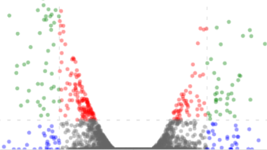
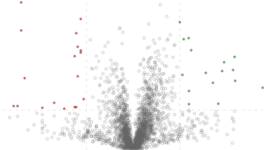
Updated styles

diff --git a/Projects/java/Dubase/java/WebContent/resources/css/volcano.css b/Projects/java/Dubase/java/WebContent/resources/css/volcano.css
@@ -27,21 +27,26 @@
 
 .dot {
     /*pointer-events: all;*/
-    fill: #666;
     stroke: none;
-    opacity: 0.4;
+    opacity: 0.6;
+}
+
+.dot.none {
+	fill: none;
+	stroke: #666;
 }
 
 .dot.up {
-	fill: green;
+	fill: darkgreen;
 }
 
 .dot.down {
-	fill: red;
+	fill: darkred;
 }
 
 .dot.semi {
-	fill: #666;
+	fill: none;
+	stroke: #666;
 }
 
 .dot.sel {

diff --git a/Projects/java/Dubase/java/WebContent/resources/js/volcano.js b/Projects/java/Dubase/java/WebContent/resources/js/volcano.js
@@ -188,7 +188,7 @@ function volcanoPlot() {
             }
 
             function circleClass(d) {
-            	var cls = 'dot';
+            	var cls = 'dot none';
             	if (d[yColumn] <= significanceThreshold)
             		if (d[xColumn] >= foldChangeThreshold)
             			cls = 'dot up';

diff --git a/Projects/java/Dubase/java/src/es/ehubio/dubase/pl/views/HomeView.java b/Projects/java/Dubase/java/src/es/ehubio/dubase/pl/views/HomeView.java
@@ -16,7 +16,7 @@ public class HomeView {
 	public HomeView() {
 		ops.add(new OperationBean("Search", "search", "Query DUBase with your DUB or substrate of interest", "search-preview.png"));
 		ops.add(new OperationBean("Browse", "browse", "Browse DUBs and their potential substrates in DUBase graphically", "browse-preview.png"));
-		ops.add(new OperationBean("Analyze", "analyze", "Analyze global results from all the experiments in DUBase", "gprofiler-preview.png"));
+		ops.add(new OperationBean("Analyze", "analyze", "Analyze global results from all the experiments in DUBase", "volcano-preview.png"));
 	}
 	
 	public List<OperationBean> getOps() {

diff --git a/Projects/java/Dubase/TODO.md b/Projects/java/Dubase/TODO.md
@@ -53,7 +53,7 @@
 
 * [x] GO -> https://biit.cs.ut.ee/gprofiler/gost
 * [ ] Seleccionar una USP y buscar contra el resto resultados cruzados (tabla)
-* [ ] Vulcano: grises sólo el borde y el resto (rojos y verdes) con menos transparencia.
+* [x] Vulcano: grises sólo el borde y el resto (rojos y verdes) con menos transparencia.
 * [x] Vulcano: el signo del eje y hay que revisarlo.
 * [ ] Vulcano: controles de calidad en azul. Me los pasa Juanma y aparte está el DUB que se haya usado para la búsqueda.
 * [ ] STRING (pendiente de que Juanma vea si los resultados que salen merecen)
